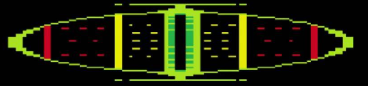
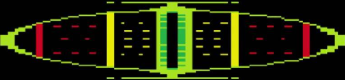
ATUALIZAções em algumas ações da prova de naturezas e balanceamento final

diff --git a/src/main/java/model/Evento/Prova/Provas/ProvasNaturezas.java b/src/main/java/model/Evento/Prova/Provas/ProvasNaturezas.java
@@ -18,10 +18,10 @@ public class ProvasNaturezas {
         int nivel = 1;
         ArrayList<AcaoBatalha> acoes = new ArrayList<>();
         // favor nao botar mais de 4 acoes em prol da UI
-        acoes.add(new AcaoBatalha("USAR CALCULADORA",  0.9f, 2, 0, 1, 0));
-        acoes.add(new AcaoBatalha("CHUTAR A RESPOSTA", 0.2f, 0, 1, 0, 0));
-        acoes.add(new AcaoBatalha("TENTAR COLAR DO COLEGA", 0.35f, 1, 1, 0, 0.5f));
-        acoes.add(new AcaoBatalha("DESISTIR",          1.0f, 0, 0, 0, 0));
+        acoes.add(new AcaoBatalha("USAR CALCULADORA",  0.9f, 2, 0, 0.25f, 1));
+        acoes.add(new AcaoBatalha("CHUTAR A RESPOSTA", 0.25f, 0, 1, 0, 1));
+        acoes.add(new AcaoBatalha("TENTAR COLAR DO COLEGA", 0.35f, 1, 1, 0, 2.25f));
+        acoes.add(new AcaoBatalha("RELER A QUESTÃO",          1.0f, 0, 0, 0, 0.75F));
 
         ProvaBatalha prova = new ProvaBatalha(
                 "Naturezas 1",
@@ -63,10 +63,10 @@ public class ProvasNaturezas {
     public static ProvaBatalha criarNaturezas2() {
         int nivel = 2;
         ArrayList<AcaoBatalha> acoes = new ArrayList<>();
-        acoes.add(new AcaoBatalha("USAR CALCULADORA",  0.9f, 2, 0, 1, 0));
-        acoes.add(new AcaoBatalha("CHUTAR A RESPOSTA", 0.2f, 0, 1, 0, 0));
-        acoes.add(new AcaoBatalha("TENTAR COLAR DO COLEGA", 0.35f, 1, 1, 0, 0.5f));
-        acoes.add(new AcaoBatalha("DESISTIR",          1.0f, 0, 0, 0, 0));
+        acoes.add(new AcaoBatalha("USAR CALCULADORA",  0.9f, 2, 0, 0.25f, 3f));
+        acoes.add(new AcaoBatalha("CHUTAR A RESPOSTA", 0.25f, 0, 1, 0, 4f));
+        acoes.add(new AcaoBatalha("TENTAR COLAR DO COLEGA", 0.35f, 1, 1, 0, 4.5f));
+        acoes.add(new AcaoBatalha("RELER A QUESTÃO",          1.0f, 0, 0, 0, 1.5F));
 
         ProvaBatalha prova = new ProvaBatalha(
                 "Naturezas 2",
@@ -89,7 +89,7 @@ public class ProvasNaturezas {
 
         prova.addQuestao(new Questao(
                 "Cinemática",
-                90f, AreaConhecimento.NAT,
+                60f, AreaConhecimento.NAT,
                 10f,
                 new AtaqueCarroAviao(null, null, 10f),
                 "Formulas e vetores.", "transito de feira de santana."

diff --git a/src/main/java/view/batalha/BattleRenderer.java b/src/main/java/view/batalha/BattleRenderer.java
@@ -33,6 +33,12 @@ public class BattleRenderer {
         return renderHitbox;
     }
 
+    private boolean playerInvulneravel = false;
+
+    public void setPlayerInvulneravel(boolean playerInvulneravel) {
+        this.playerInvulneravel = playerInvulneravel;
+    }
+
     /**
      * Redesenha a arena inteira a partir do estado atual.
      * Remove todos os filhos dinâmicos (índice > 4, preservando fundo + bordas)
@@ -62,8 +68,16 @@ public class BattleRenderer {
         float spriteLY = p.getY() - minY - visualH / 2;
 
         ImageView pSprite = criarSprite(p, visualW, visualH, spriteLX, spriteLY);
-        arenaPane.getChildren().add(
-                pSprite != null ? pSprite : buildRect(spriteLX, spriteLY, visualW, visualH, Color.RED));
+        javafx.scene.Node playerNode = pSprite != null ? pSprite : buildRect(spriteLX, spriteLY, visualW, visualH, Color.RED);
+
+        if (this.playerInvulneravel) {
+            // Blink effect: toggle visibility every 100ms
+            if ((System.currentTimeMillis() / 50) % 2 == 0) {
+                playerNode.setVisible(false);
+            }
+        }
+
+        arenaPane.getChildren().add(playerNode);
 
         if (renderHitbox) {
             float hitboxLX = p.getX() - minX - pW / 2;

diff --git a/src/main/java/controller/BatalhaController.java b/src/main/java/controller/BatalhaController.java
@@ -95,6 +95,13 @@ public class BatalhaController extends BaseController {
         return estadoAtual != null && estadoAtual.isBatalhaAnimal();
     }
 
+    public boolean isPlayerInvulneravel() {
+        if (estadoAtual != null && estadoAtual.getPlayerProva() != null) {
+            return estadoAtual.getPlayerProva().isInvulneravel();
+        }
+        return false;
+    }
+
     public List<AcaoBatalha> getAcoes() {
         if (estadoAtual == null)
             return new ArrayList<>();
@@ -178,14 +185,20 @@ public class BatalhaController extends BaseController {
             return 3.0f;
         }
         float precisao = (float) (1.5 - (distanciaDoCentro / 350.0) * 1.5);
-        return Math.max(0f, precisao);
+        precisao = Math.max(0f, precisao);
+        
+        if (precisao >= 1.40f) {
+            return precisao * 1.5f; // Bônus multiplicativo por acertar a zona amarela!
+        }
+        
+        return precisao;
     }
 
     /**
      * Define o que é um ataque perfeito com base na precisão.
      */
     public boolean isAtaquePerfeito(float precisao) {
-        return precisao >= 1.40f && precisao < 3.0f;
+        return precisao >= 2.10f && precisao < 3.0f;
     }
 
     /**

diff --git a/src/main/java/model/Ataque/Ataques/Prova/Naturezas/AtaqueCarroAviao.java b/src/main/java/model/Ataque/Ataques/Prova/Naturezas/AtaqueCarroAviao.java
@@ -13,8 +13,8 @@ public class AtaqueCarroAviao extends Ataque {
     private float timerCarro = 0;
     private float timerAviao = 0;
     
-    private final float SPAWN_DELAY_CARRO = 1.1f;
-    private final float SPAWN_DELAY_AVIAO = 0.8f;
+    private final float SPAWN_DELAY_CARRO = 1.3f - (dificuldade/100);
+    private final float SPAWN_DELAY_AVIAO = 1f - (dificuldade/100);
     
     private final float FASE_1_DURACAO = 20f;
 

diff --git a/src/main/java/model/Player/PlayerProva.java b/src/main/java/model/Player/PlayerProva.java
@@ -116,6 +116,10 @@ public class PlayerProva extends EntidadeBatalha {
         tempoImunidadeRestante = TEMPO_IMUNIDADE; 
     }
 
+    public boolean isInvulneravel() {
+        return this.tempoImunidadeRestante > 0;
+    }
+
     @Override
     public void atualizarPosicao(float deltaTime) {
 

diff --git a/src/main/java/service/batalha/BatalhaLoopService.java b/src/main/java/service/batalha/BatalhaLoopService.java
@@ -96,7 +96,7 @@ public class BatalhaLoopService {
     public void atacarOponenteAtual(EstadoBatalha estado, float multiplicadorPrecisao) {
         Oponente oponenteAtual = estado.getOponenteAtual();
         if (oponenteAtual != null && !oponenteAtual.isDerrotado()) {
-            if(multiplicadorPrecisao < 1.25){
+            if(multiplicadorPrecisao < 2.0f){
                 estado.getPlayerProva().setTodosAcertosPerfeitos(false);
             }
             float danoCausado = estado.getPlayerProva().getDanoAtaque() * multiplicadorPrecisao;

diff --git a/src/main/java/view/batalha/MinigameBatalha.java b/src/main/java/view/batalha/MinigameBatalha.java
@@ -75,7 +75,7 @@ public class MinigameBatalha {
         feedbackText = new Text();
         feedbackText.setVisible(false);
 
-        minigameBox.setOnMouseClicked(e -> finalizar());
+        minigameBox.setOnMousePressed(e -> finalizar());
 
         container.getChildren().addAll(titulo, minigameBox, instrucao, feedbackText);
         return container;

diff --git a/src/main/java/view/cena/CenaBatalha.java b/src/main/java/view/cena/CenaBatalha.java
@@ -183,6 +183,7 @@ public class CenaBatalha extends StackPane {
         hud.atualizarTextosHUD(maxHpOponente, maxTurnosOponente);
 
         if (estadoUI == EstadoUI.INIMIGO_ATACANDO && arenaPane != null) {
+            renderer.setPlayerInvulneravel(batalhaController.isPlayerInvulneravel());
             renderer.renderFrame(arenaPane, batalhaController.getEstadoController().getEstadoBatalha());
         }
     }